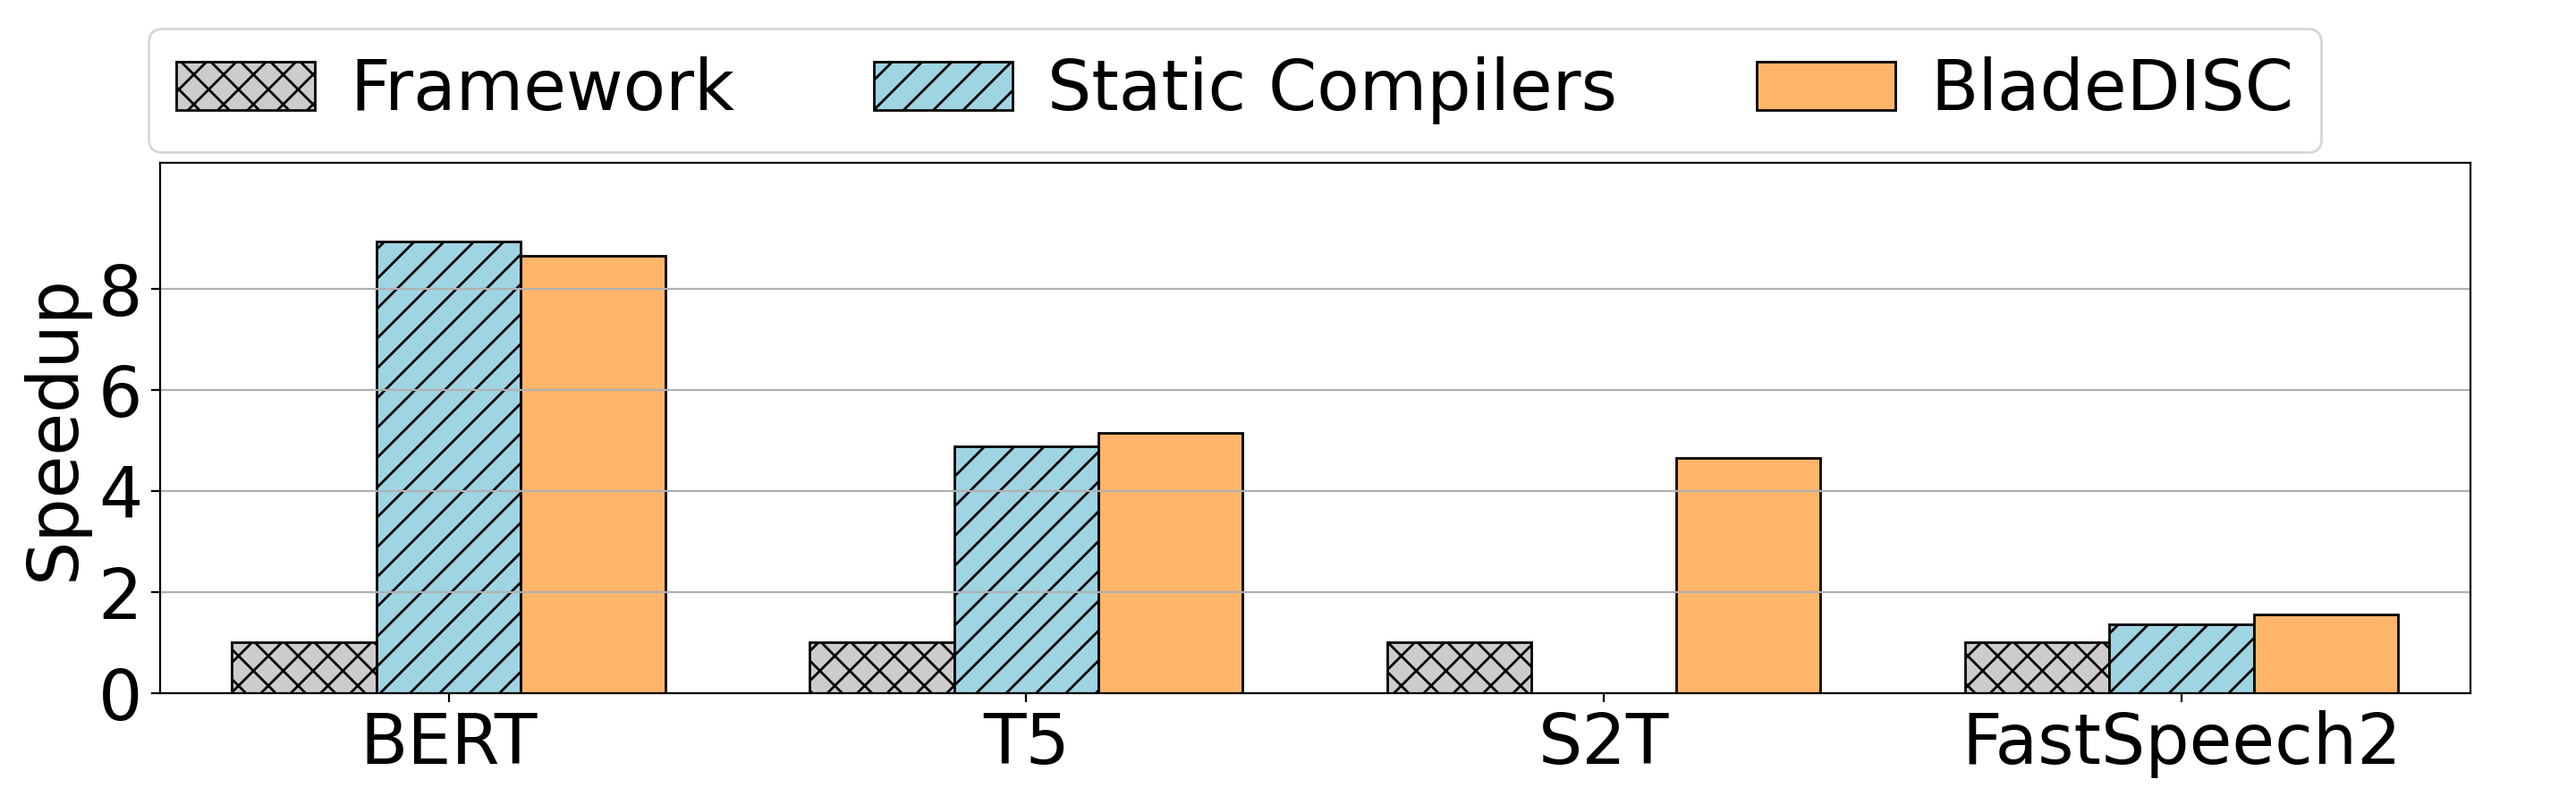
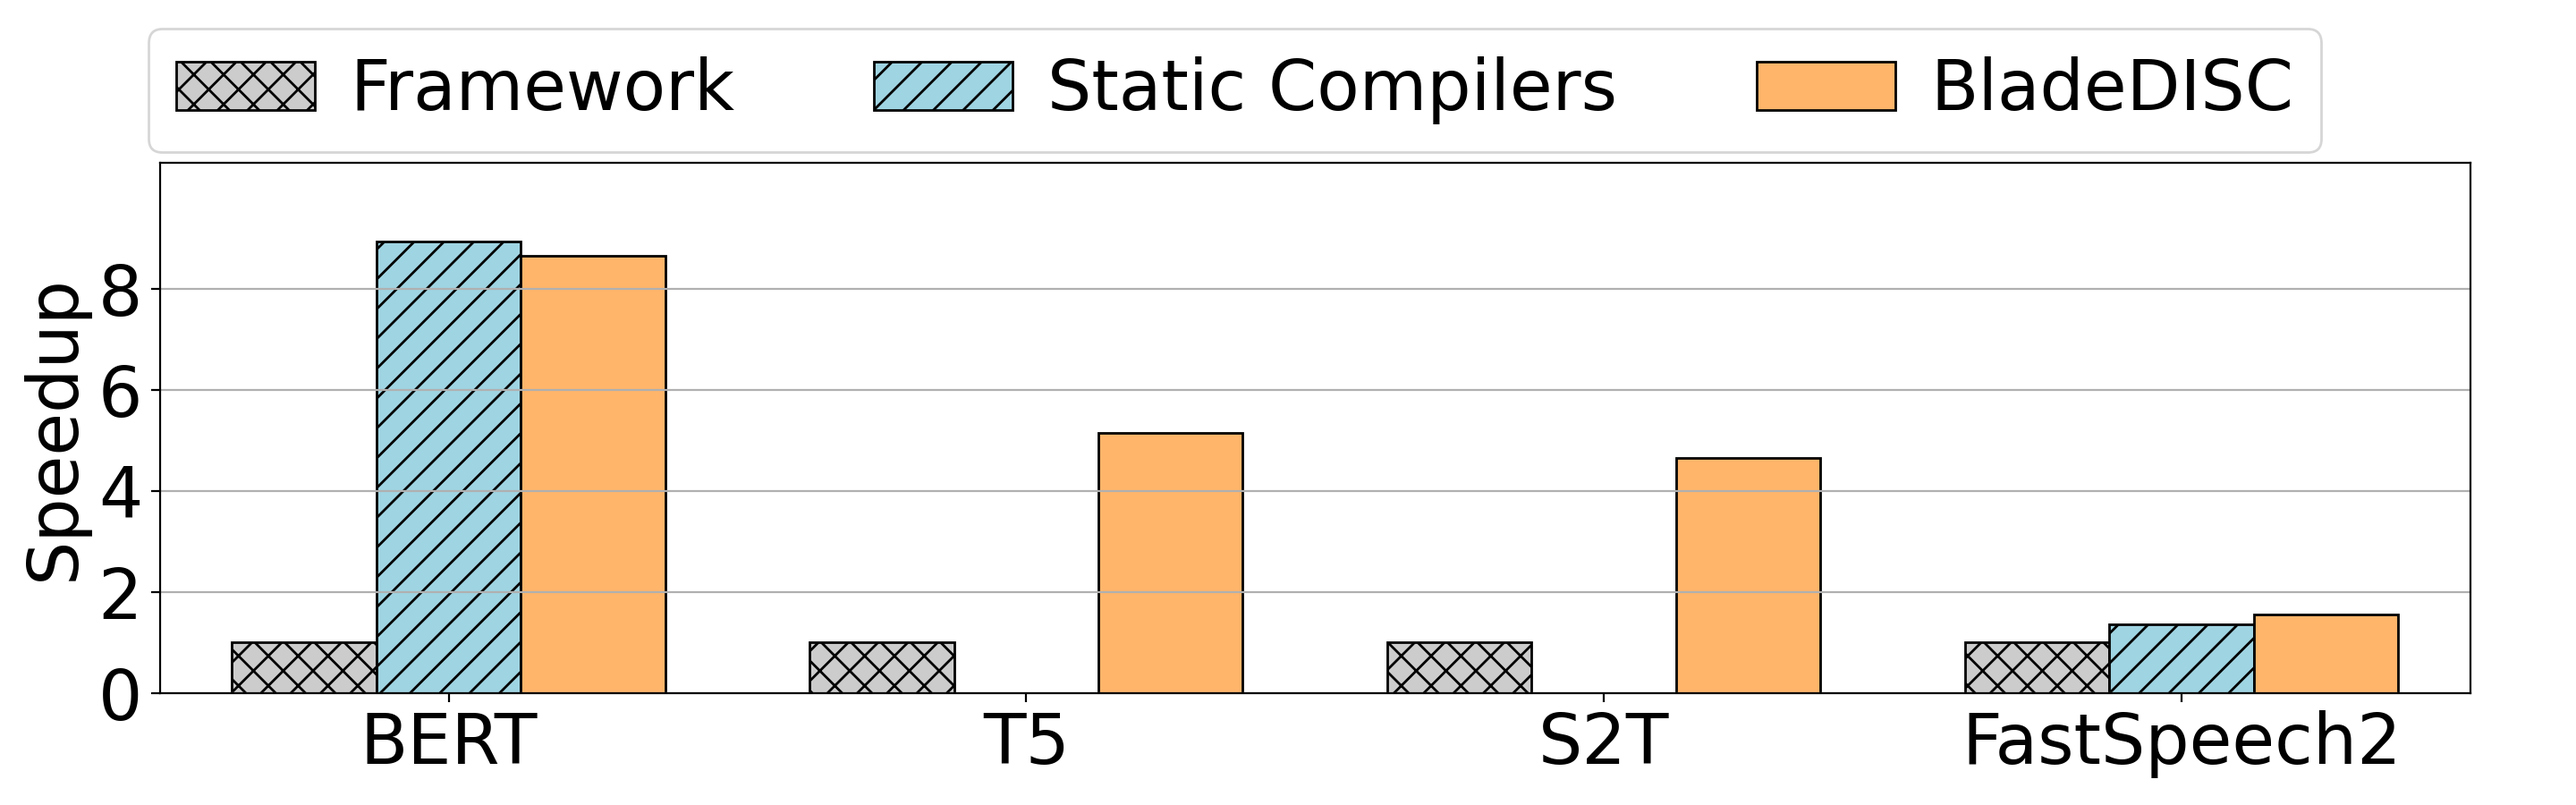
Remove TRT result due to wrong result for T5.

Changed region(s): [[0.3438, 0.5289, 0.4375, 0.8711]]

diff --git a/examples/PyTorch/Inference/T5/main.py b/examples/PyTorch/Inference/T5/main.py
@@ -82,22 +82,6 @@ def disc_optimize(model, inputs, out_file: str):
     torch.jit.save(optimized_ts, out_file)
 
 
-def blade_trt_optimize(model, inputs, fp16: bool, out_file: str):
-    cfg = torch_blade.Config.get_current_context_or_new().clone()
-    cfg.optimization_pipeline = torch_blade.tensorrt.backend_name()
-    cfg.customize_onnx_opset_version = 12
-    cfg.enable_fp16 = fp16
-
-    traced_model = torch.jit.trace(model.cuda().eval(), inputs,
-                                   strict=False).cuda().eval()
-
-    with cfg, torch_blade.logging.logger_level_context('INFO'):
-        opt_model = torch_blade.optimize(traced_model,
-                                         False,
-                                         model_inputs=tuple(inputs))
-    torch.jit.save(opt_model, out_file)
-
-
 def run():
     tokenizer = T5Tokenizer.from_pretrained("t5-base")
     input_ids = tokenizer(
@@ -122,12 +106,6 @@ def run():
     print("BladeDISC Optimization.")
     disc_optimize(traced_model_amp, inputs, 't5-base_amp.disc.pt')
     model = torch.jit.load('t5-base_amp.disc.pt').cuda().eval()
-    evaluate_torch(model, inputs)
-
-    # Run TorchBlade-TensorRT optimization.
-    print("TorchBlade-TensorRT Optimization.")
-    blade_trt_optimize(model, inputs, True, 't5-base_amp.trt.pt')
-    model = torch.jit.load('t5-base_amp.trt.pt').cuda().eval()
     evaluate_torch(model, inputs)
 
 

diff --git a/examples/PyTorch/Inference/T5/README.md b/examples/PyTorch/Inference/T5/README.md
@@ -26,7 +26,7 @@ You can run the example with the following command:
 python main.py
 ```
 
-It will run optimizations of BladeDISC and TensorRT.
+It will run optimizations of BladeDISC.
 
 ## Performance results.
 
@@ -34,9 +34,8 @@ We evaluate this example on T4 GPU, The CUDA version is 11.0. CuDNN version is
 8.0. PyTorch version is 1.7.1. The average execution time of the 100 inferences
 is as following (ms).
 
-| PyTorch | Blade TRT static | DISC |
-|---------|------------------|------|
-|  36.45  |       7.47       | 7.08 |
+| PyTorch | DISC |
+|---------|------|
+|  36.45  | 7.08 |
 
-DISC shows a 5.15x speedup over basic PyTorch, and 1.05x speedup over TRT static
-optimization.
+DISC shows a 5.15x speedup over basic PyTorch.
